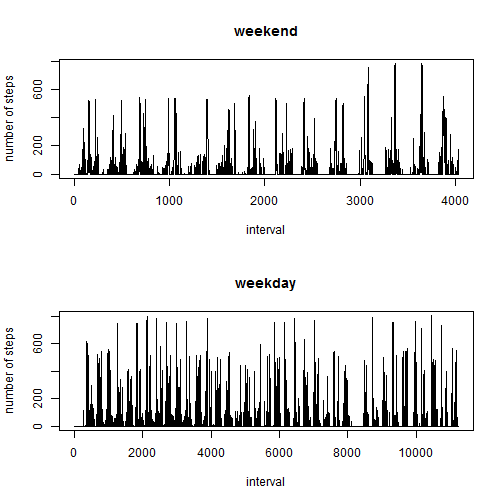
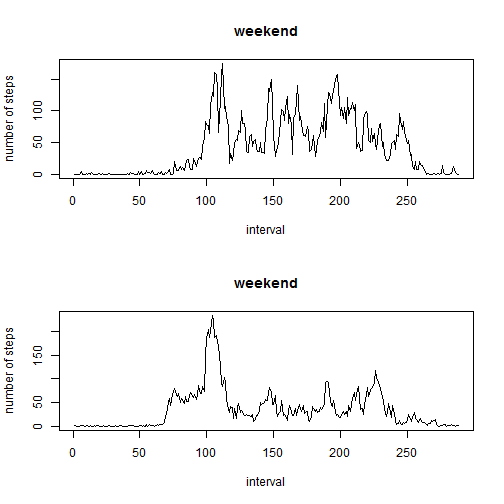
Assignment 1 completed

diff --git a/PA1_template.html b/PA1_template.html
@@ -189,6 +189,7 @@ hljs.initHighlightingOnLoad();
 2 Process/transform the data (if necessary) into a format suitable for your analysis</p>
 
 <pre><code class="r">data = read.csv(&quot;activity.csv&quot;)
+complete = na.omit(data)
 </code></pre>
 
 <h2>What is mean total number of steps taken per day?</h2>
@@ -197,7 +198,7 @@ hljs.initHighlightingOnLoad();
 
 <p>1 Make a histogram of the total number of steps taken each day</p>
 
-<pre><code class="r">complete = na.omit(data)
+<pre><code class="r">
 byDay = data.frame(unlist(tapply(complete$steps, complete$date, sum)))
 byDay = as.numeric(unlist(byDay))
 nas = is.na(byDay)
@@ -220,12 +221,12 @@ hist(byDay)
 
 <p>1 Make a time series plot (i.e. type = &ldquo;l&rdquo;) of the 5-minute interval (x-axis) and the average number of steps taken, averaged across all days (y-axis)</p>
 
-<pre><code class="r">complete = subset(data, complete.cases(cbind(data$steps, data$interval)))
-stepsByInterval = tapply(complete$steps, complete$interval, sum)
+<pre><code class="r">
+stepsByInterval = tapply(complete$steps, complete$interval, mean)
 plot(stepsByInterval, type = &quot;l&quot;)
 </code></pre>
 
[2 lines of base64/hex data omitted]
 
 <p>2 Which five-minute interval, on average across all the days inthe dataset, contains the maximum number of steps?</p>
 
@@ -286,14 +287,17 @@ complete$day = as.factor(complete$day)
 
 <p>2 Make a panel plot containing a time series plot (i.e. type = &ldquo;l&rdquo;) of the 5-minute interval (x-axis) and the average number of steps taken, averaged across all weekday days or weekend days (y-axis). The plot should look something like the following, which was creating using simulated data:</p>
 
-<pre><code class="r">par(mfrow = c(2, 1))
-plot(complete$steps[complete$day == &quot;weekend&quot;], type = &quot;l&quot;, main = &quot;weekend&quot;, 
+<pre><code class="r">ofweekends = subset(complete, day == &quot;weekend&quot;)
+ofweekdays = subset(complete, day == &quot;weekday&quot;)
+
+par(mfrow = c(2, 1))
+plot(tapply(ofweekends$steps, ofweekends$interval, mean), type = &quot;l&quot;, main = &quot;weekend&quot;, 
     xlab = &quot;interval&quot;, ylab = &quot;number of steps&quot;)
-plot(complete$steps[complete$day == &quot;weekday&quot;], type = &quot;l&quot;, main = &quot;weekday&quot;, 
+plot(tapply(ofweekdays$steps, ofweekdays$interval, mean), type = &quot;l&quot;, main = &quot;weekend&quot;, 
     xlab = &quot;interval&quot;, ylab = &quot;number of steps&quot;)
 </code></pre>
 
[2 lines of base64/hex data omitted]
 
 </body>
 

diff --git a/PA1_template.md b/PA1_template.md
@@ -9,6 +9,7 @@
 
 ```r
 data = read.csv("activity.csv")
+complete = na.omit(data)
 ```
 
 
@@ -19,7 +20,7 @@ For this part of the assignment, you can ignore the missing values in the datase
 
 
 ```r
-complete = na.omit(data)
+
 byDay = data.frame(unlist(tapply(complete$steps, complete$date, sum)))
 byDay = as.numeric(unlist(byDay))
 nas = is.na(byDay)
@@ -45,8 +46,8 @@ paste("The mean number of steps by day is: ", mean(byDay), " and the median is: 
 1 Make a time series plot (i.e. type = "l") of the 5-minute interval (x-axis) and the average number of steps taken, averaged across all days (y-axis)
 
 ```r
-complete = subset(data, complete.cases(cbind(data$steps, data$interval)))
-stepsByInterval = tapply(complete$steps, complete$interval, sum)
+
+stepsByInterval = tapply(complete$steps, complete$interval, mean)
 plot(stepsByInterval, type = "l")
 ```
 
@@ -122,10 +123,13 @@ complete$day = as.factor(complete$day)
 
 
 ```r
+ofweekends = subset(complete, day == "weekend")
+ofweekdays = subset(complete, day == "weekday")
+
 par(mfrow = c(2, 1))
-plot(complete$steps[complete$day == "weekend"], type = "l", main = "weekend", 
+plot(tapply(ofweekends$steps, ofweekends$interval, mean), type = "l", main = "weekend", 
     xlab = "interval", ylab = "number of steps")
-plot(complete$steps[complete$day == "weekday"], type = "l", main = "weekday", 
+plot(tapply(ofweekdays$steps, ofweekdays$interval, mean), type = "l", main = "weekend", 
     xlab = "interval", ylab = "number of steps")
 ```
 
